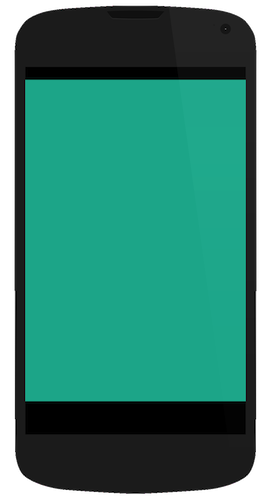
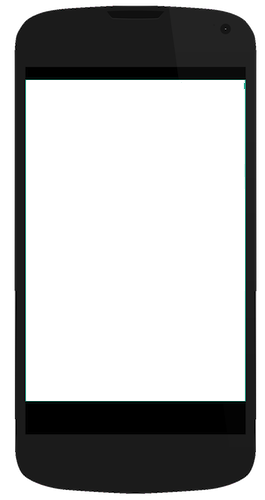
design2

diff --git a/app/assets/javascripts/application.js b/app/assets/javascripts/application.js
@@ -13,6 +13,7 @@
 //= require jquery
 //= require jquery_ujs
 //= require bootstrap
+//= require jquery-fileupload
 //= require_tree .
 $(document).ready(function() {
 	$("#full").spectrum({
@@ -37,8 +38,16 @@ $(document).ready(function() {
 	    hide: function () {
 	    
 	    },
-	    change: function() {
-	        
+	    change: function(color) {
+	       var hsv = color.toHsv();
+        var rgb = color.toRgbString();
+        var hex = color.toHexString();
+        //console.log("callback",color.toHslString(), color.toHsl().h, color.toHsl().s, color.toHsl().l)
+        $(".screen").css({
+            'background-color': color.toRgbString()
+        }).toggleClass("dark", hsv.v < .5);
+        $("#switch-current-rgb").text(rgb);
+        $("#switch-current-hex").text(hex);
 	    },
 	    palette: [
 	        ["rgb(0, 0, 0)", "rgb(67, 67, 67)", "rgb(102, 102, 102)",
@@ -67,8 +76,16 @@ $(document).ready(function() {
 	    hide: function () {
 	    
 	    },
-	    change: function() {
-	        
+	    change: function(color) {
+	      var hsv = color.toHsv();
+        var rgb = color.toRgbString();
+        var hex = color.toHexString();
+        //console.log("callback",color.toHslString(), color.toHsl().h, color.toHsl().s, color.toHsl().l)
+        $(".text").css({
+            'color': color.toRgbString()
+        }).toggleClass("dark", hsv.v < .5);
+        $("#switch-current-rgb").text(rgb);
+        $("#switch-current-hex").text(hex);
 	    },
 	    palette: [
 	        ["rgb(0, 0, 0)", "rgb(67, 67, 67)", "rgb(102, 102, 102)",

diff --git a/app/assets/stylesheets/bootstrap.css.scss b/app/assets/stylesheets/bootstrap.css.scss
@@ -2284,7 +2284,7 @@ table th[class*="span"],
   *margin-right: .3em;
   line-height: 14px;
   vertical-align: text-top;
-  background-image: url("../img/glyphicons-halflings.png");
+  background-image: url("glyphicons-halflings.png");
   background-position: 14px 14px;
   background-repeat: no-repeat;
 }

diff --git a/app/assets/stylesheets/bootstrap_and_overrides.css.scss b/app/assets/stylesheets/bootstrap_and_overrides.css.scss
@@ -247,3 +247,16 @@ body {
       }
 
     }
+.nexus {
+  background-image: url(nexus.png);
+  background-repeat: no-repeat;
+  height: 500px;
+  width: 265px;
+  padding-top: 79px;
+}
+.screen{
+  height:325px;
+  width:221px;
+  margin-left: 25px;
+  padding: 5px;
+}
